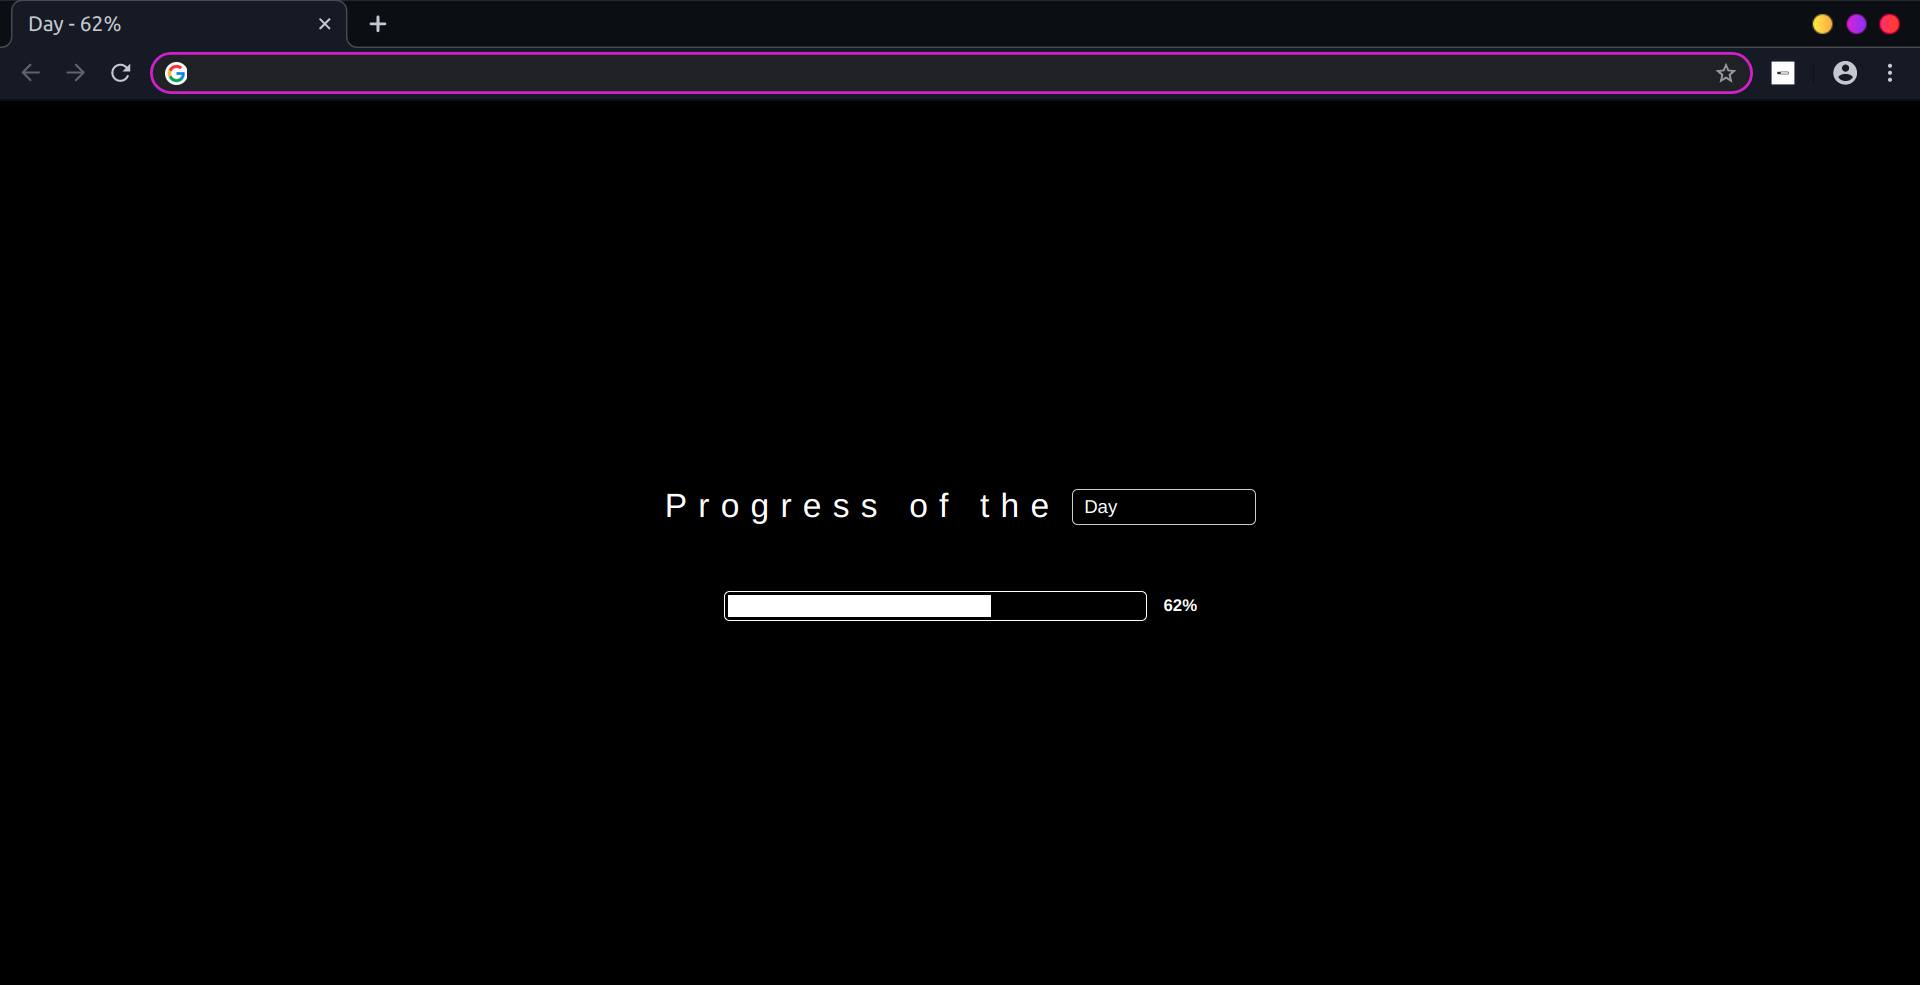
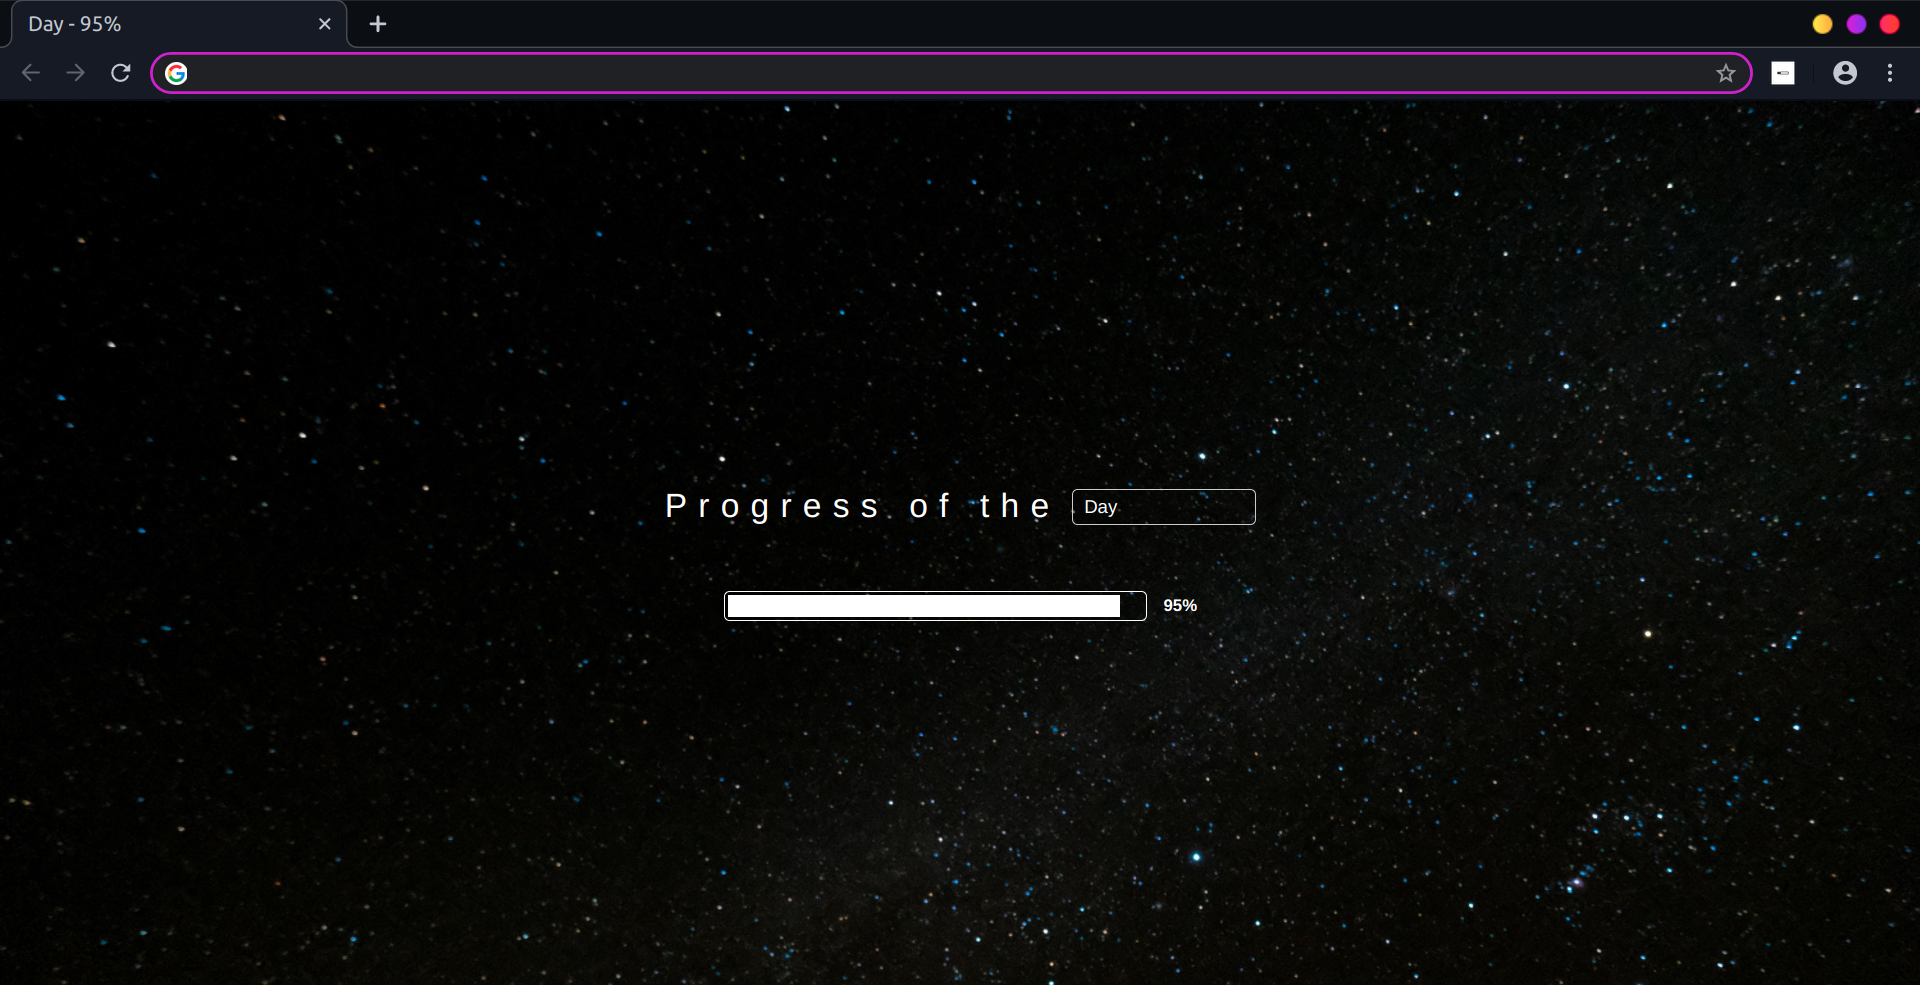
Adding background image

diff --git a/index.js b/index.js
@@ -2,6 +2,7 @@ window.addEventListener("DOMContentLoaded", () => {
   const step = document.getElementById("step");
   const progressValue = document.getElementById("progress-value");
   const completed = document.getElementById("completed");
+  const body = document.getElementsByTagName("body")[0];
 
   progressValue.innerText = "0%";
   completed.style.width = "0%";
@@ -12,8 +13,10 @@ window.addEventListener("DOMContentLoaded", () => {
   endDate.setHours(23, 59, 59, 999);
   let totalDifference = endDate.getTime() - startDate.getTime();
 
+  // Runs every one second to update progress of time
   const timer = setInterval(() => {
-    const currentTimeDifference = endDate.getTime() - new Date().getTime();
+    const currentTime = new Date();
+    const currentTimeDifference = endDate.getTime() - currentTime.getTime();
     const percentage = (
       ((totalDifference - currentTimeDifference) / totalDifference) *
       100
@@ -22,6 +25,23 @@ window.addEventListener("DOMContentLoaded", () => {
     progressValue.innerText = `${percentage}%`;
     document.title = `${step.value} - ${percentage}%`;
     completed.style.width = `calc(${percentage}% - 7px)`;
+
+    const currentHour = currentTime.getHours();
+    const morning = 5;
+    const afternoon = 16;
+    const evening = 18;
+
+    // Change background image depending of time of day
+    if (currentHour > morning && currentHour < afternoon) {
+      // 5AM - 4PM
+      body.style.backgroundImage = "url('images/morning.jpg')";
+    } else if (currentHour > 16 && currentHour < 18) {
+      // 4PM - 7PM
+      body.style.backgroundImage = "url('images/sunset.jpg')";
+    } else {
+      // 7PM - 5AM
+      body.style.backgroundImage = "url('images/night.jpg')";
+    }
   }, 1000);
 
   step.addEventListener("change", event => {

diff --git a/index.css b/index.css
@@ -11,6 +11,9 @@ body {
   font-family: Arial, Helvetica, sans-serif;
   background-color: #000;
   color: #fff;
+  background-image: url("images/morning.jpg");
+  background-repeat: no-repeat;
+  background-size: cover;
 }
 
 h1 {

diff --git a/README.md b/README.md
@@ -8,5 +8,11 @@ https://chrome.google.com/webstore/detail/progress-of-the-day/oifeogeaecofkhbaai
 
 ### Todo
 
-- [ ] Change background image depending on period of day
+- [x] Change background image depending on period of day
 - [ ] Use difference between days for Week, Month and Year
+
+### Thanks to
+
+- Night sky Photo by Francesco Ungaro from Pexels
+- Morning Photo by Ákos Szabó from Pexels
+- Sunset Photo by Pixabay
